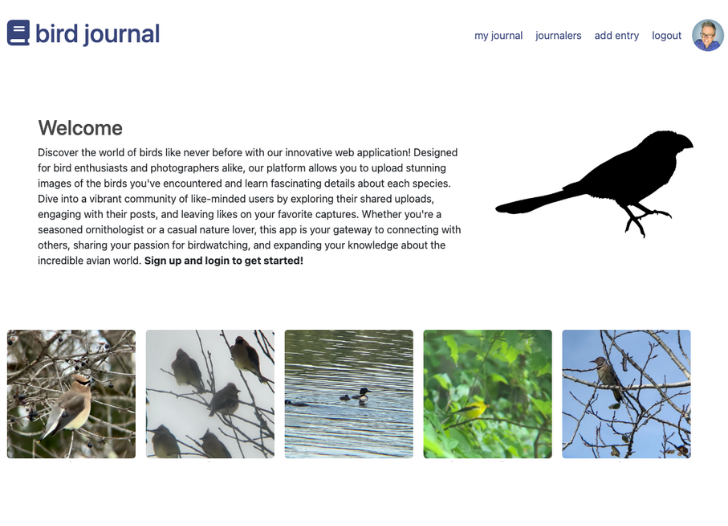
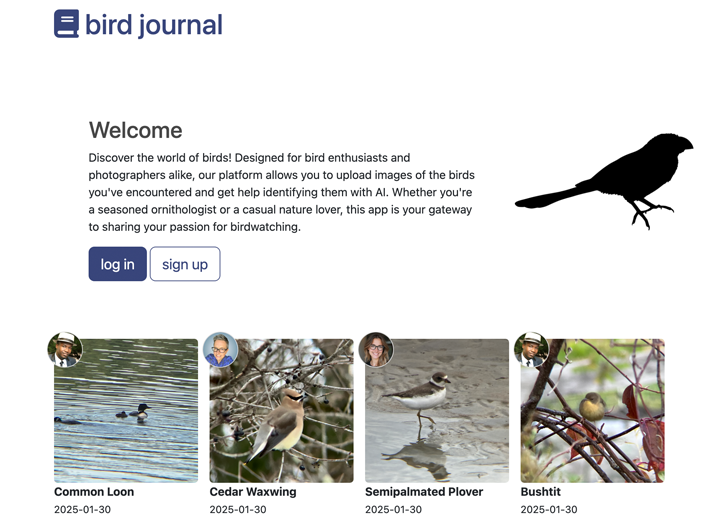
updated Bird Journal screenshot and description

diff --git a/projects.py b/projects.py
@@ -2,8 +2,8 @@ projects = [
   {
     "image": "static/images/bird-journal-768x526.png",
     "name": "Bird Journal",
-    "techs": ["node.js", "express", "mongoose", "mongoDB", "ejs", "javascript", "css", "bootstrap", "html", "cloudinary", "passport", "multer"],
-    "description": "A full-stack web application designed to help users track their wildlife observations. The application allows users to record, view, and manage their bird sightings efficiently. This project utilizes the Model-View-Controller (MVC) architecture.",
+    "techs": ["node.js", "express", "mongoose", "mongoDB", "ejs", "javascript", "css", "bootstrap", "html", "cloudinary", "gemini API", "passport", "multer"],
+    "description": "A full-stack web application designed to help users track their wildlife observations. The application allows users to record, view, and manage their bird sightings efficiently. This project utilizes the Google Gemini API for AI suggestions based on the uploaded photo.",
     "live": "https://bird-journal.onrender.com/",
     "repo": "https://github.com/heidi37/bird-journal",
     "featured": True
